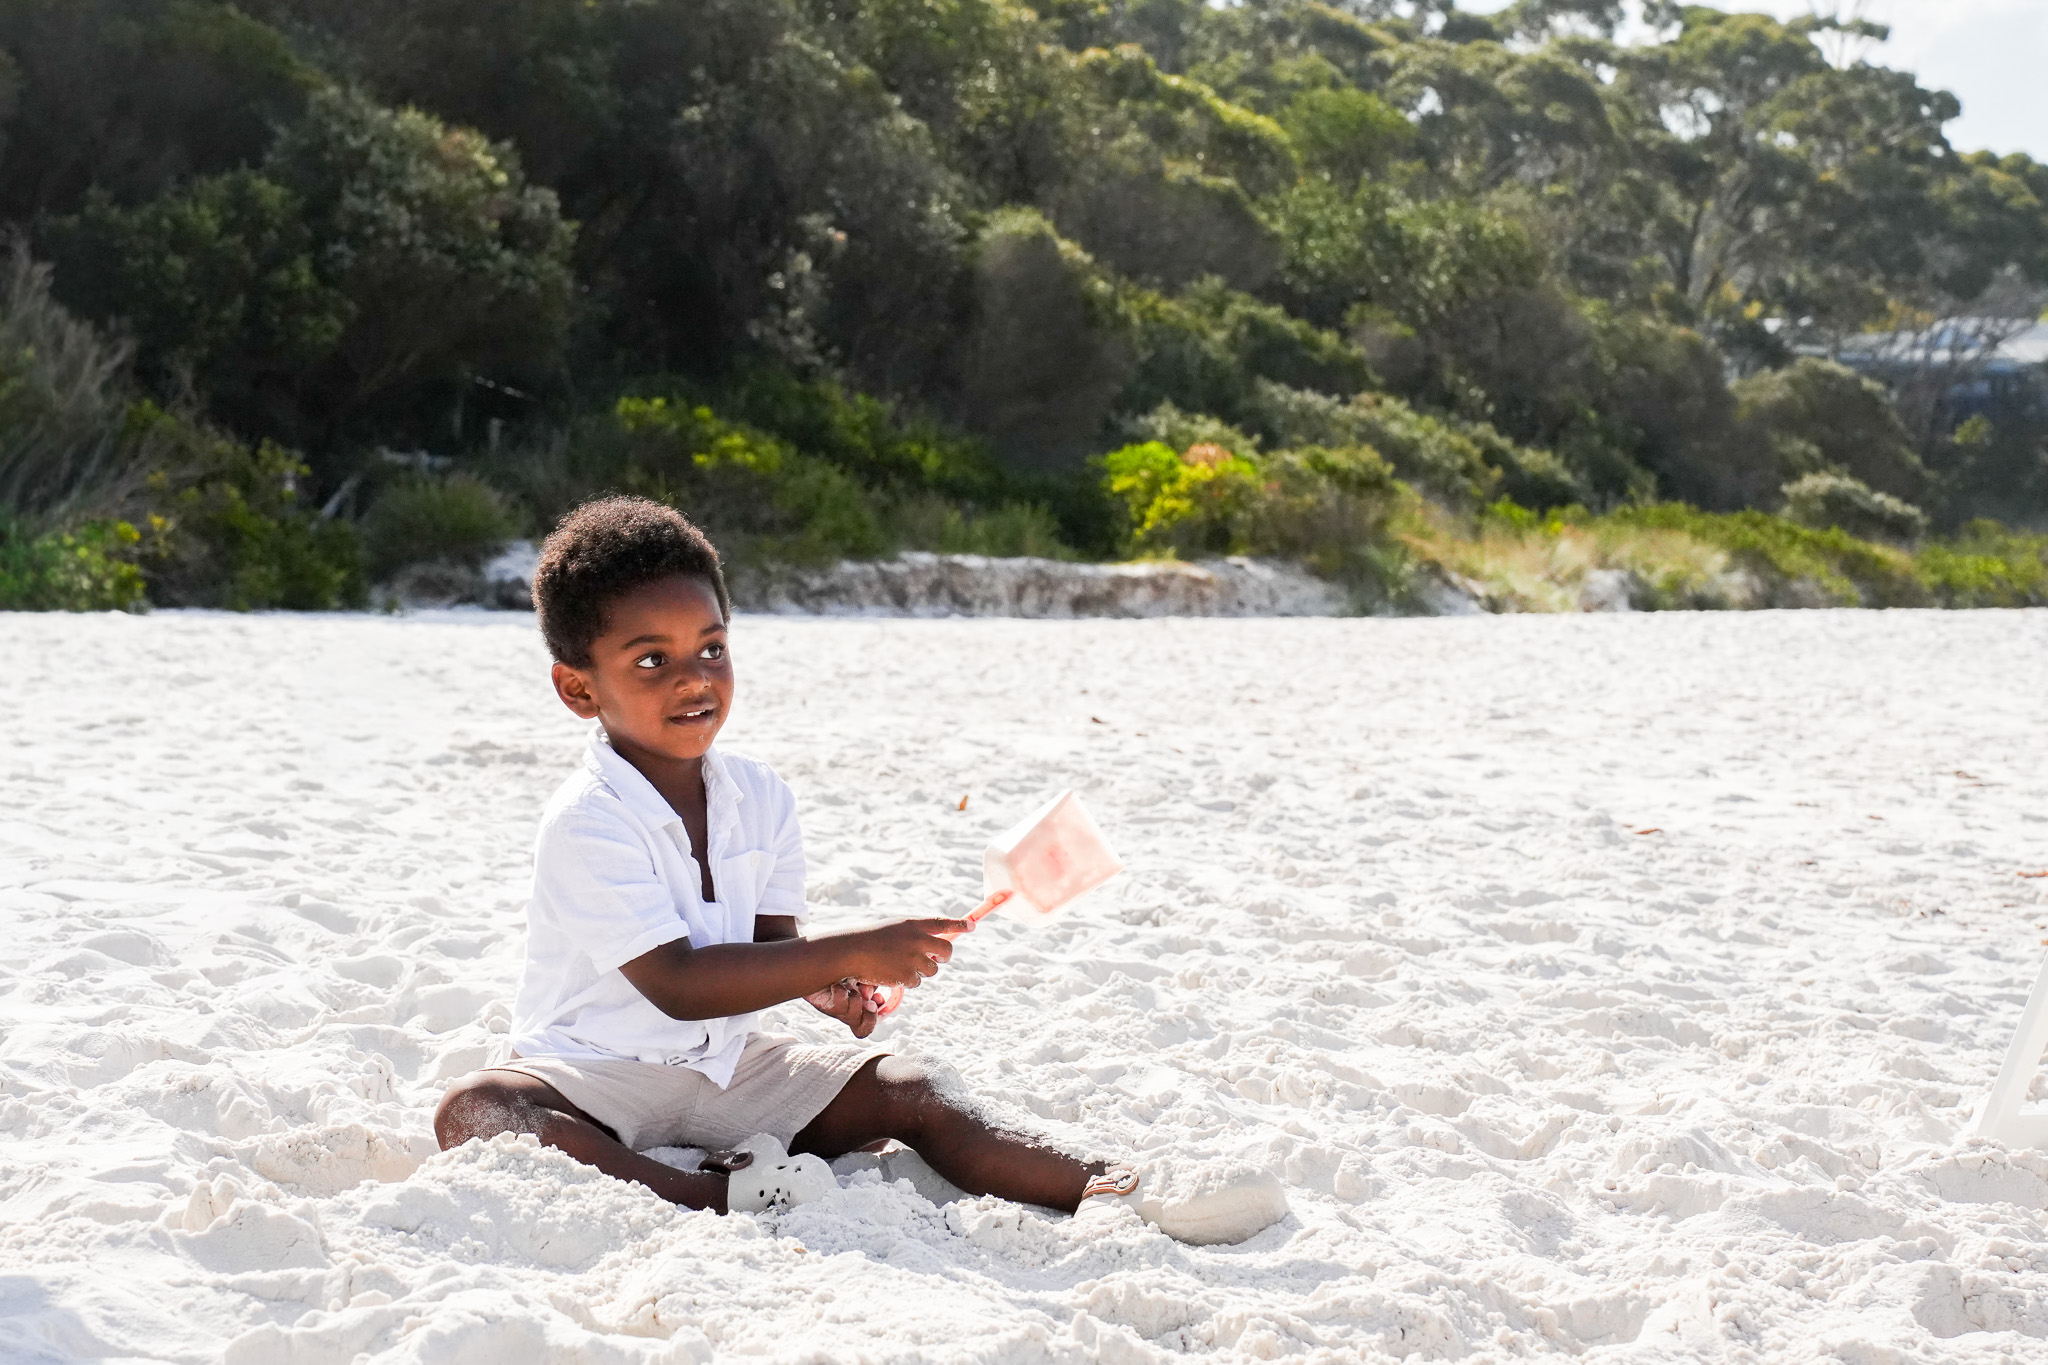
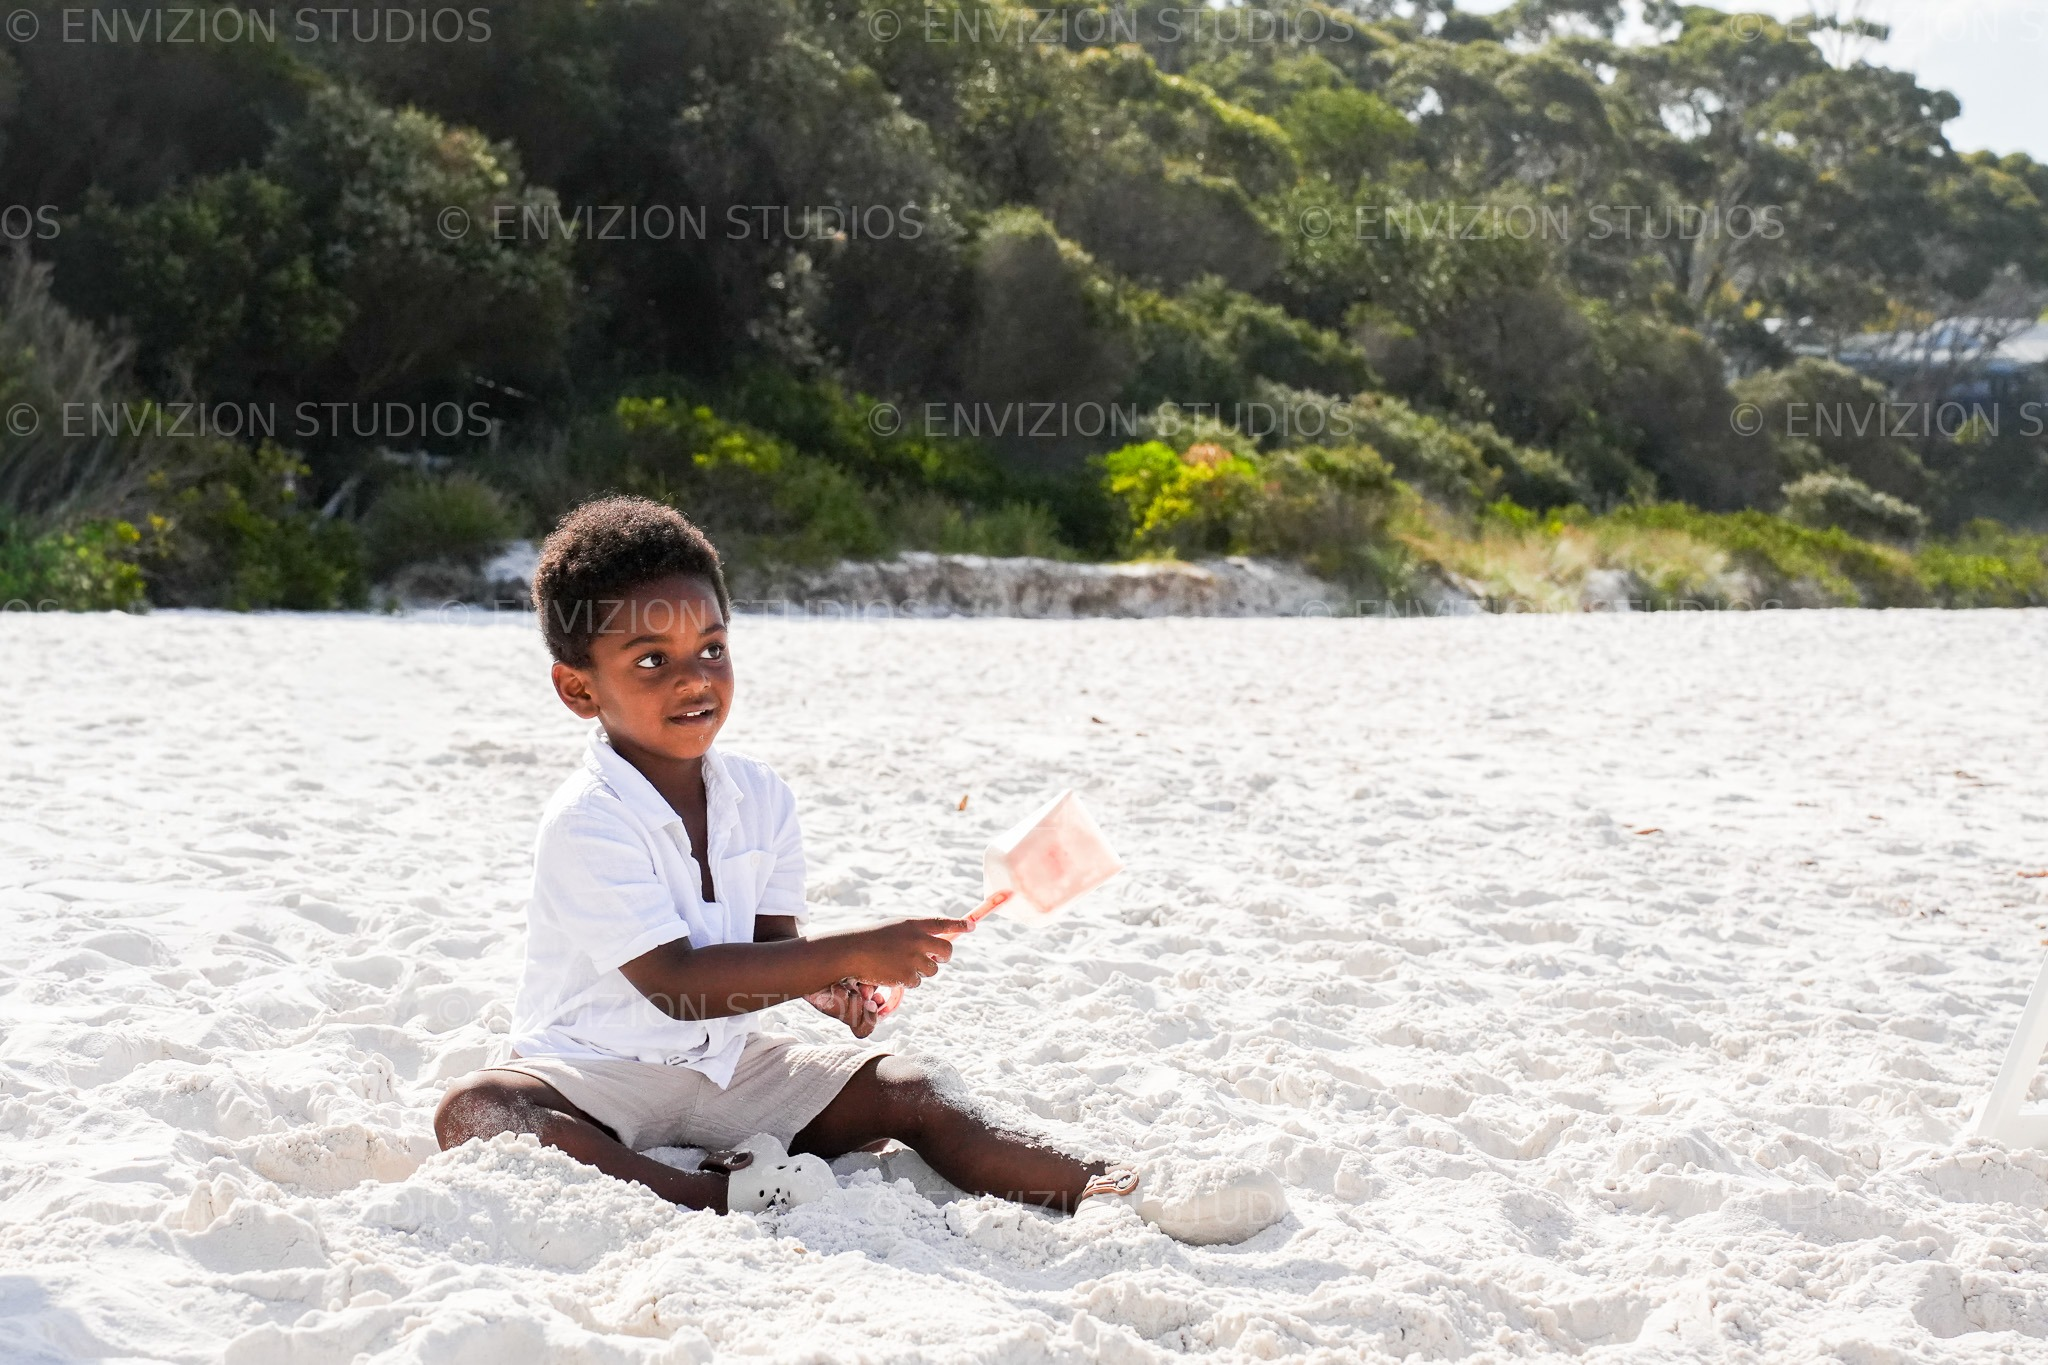
Watermark all wedding sneak peek images
- Burned '© ENVIZION STUDIOS' tiled watermark into all 7 photos
- Added CSS text overlay watermark on carousel slides as second layer

Claude-Session: https://claude.ai/code/session_01FViDeiQ3yES4HP6Cs3PtT9

diff --git a/gallery-weddings.html b/gallery-weddings.html
@@ -259,6 +259,26 @@
     }
     .carousel-slide img.loaded { opacity: 1; }
 
+    /* Watermark overlay */
+    .carousel-slide::after {
+      content: '© ENVIZION STUDIOS   © ENVIZION STUDIOS   © ENVIZION STUDIOS';
+      position: absolute;
+      inset: 0;
+      display: flex;
+      align-items: center;
+      justify-content: center;
+      font-family: 'Montserrat', sans-serif;
+      font-size: clamp(11px, 1.4vw, 18px);
+      font-weight: 500;
+      letter-spacing: 0.28em;
+      text-transform: uppercase;
+      color: rgba(255,255,255,0.18);
+      pointer-events: none;
+      text-shadow: 0 1px 3px rgba(0,0,0,0.4);
+      word-spacing: 0.4em;
+      z-index: 5;
+    }
+
     /* Placeholder when no image yet */
     .carousel-placeholder {
       width: 100%;
